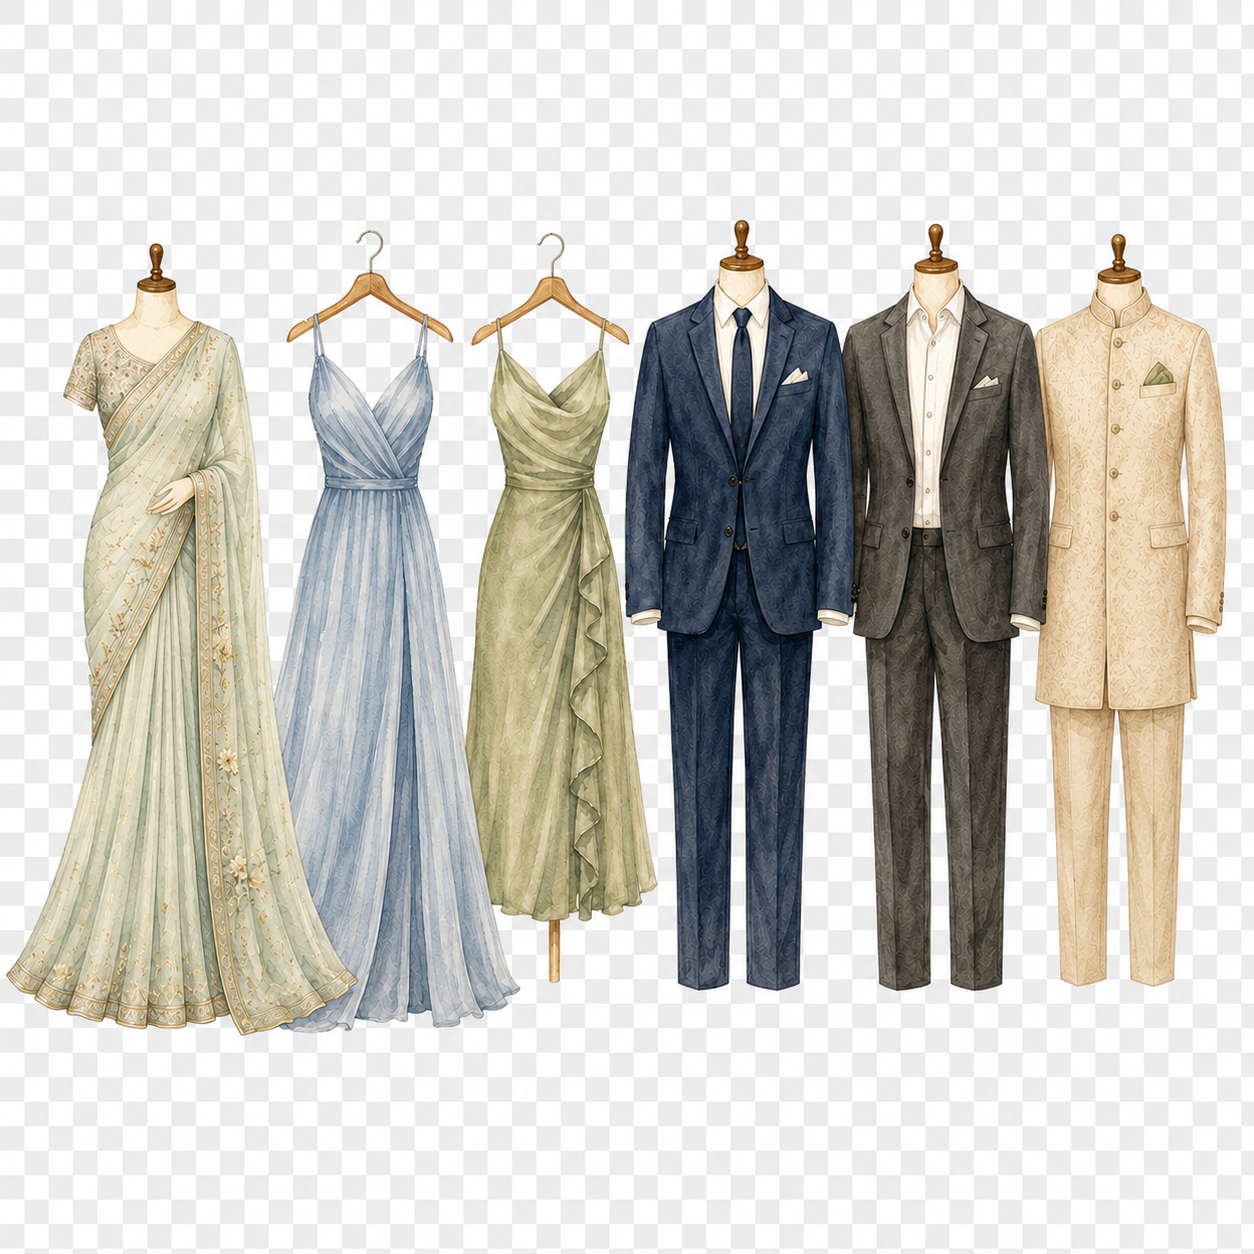
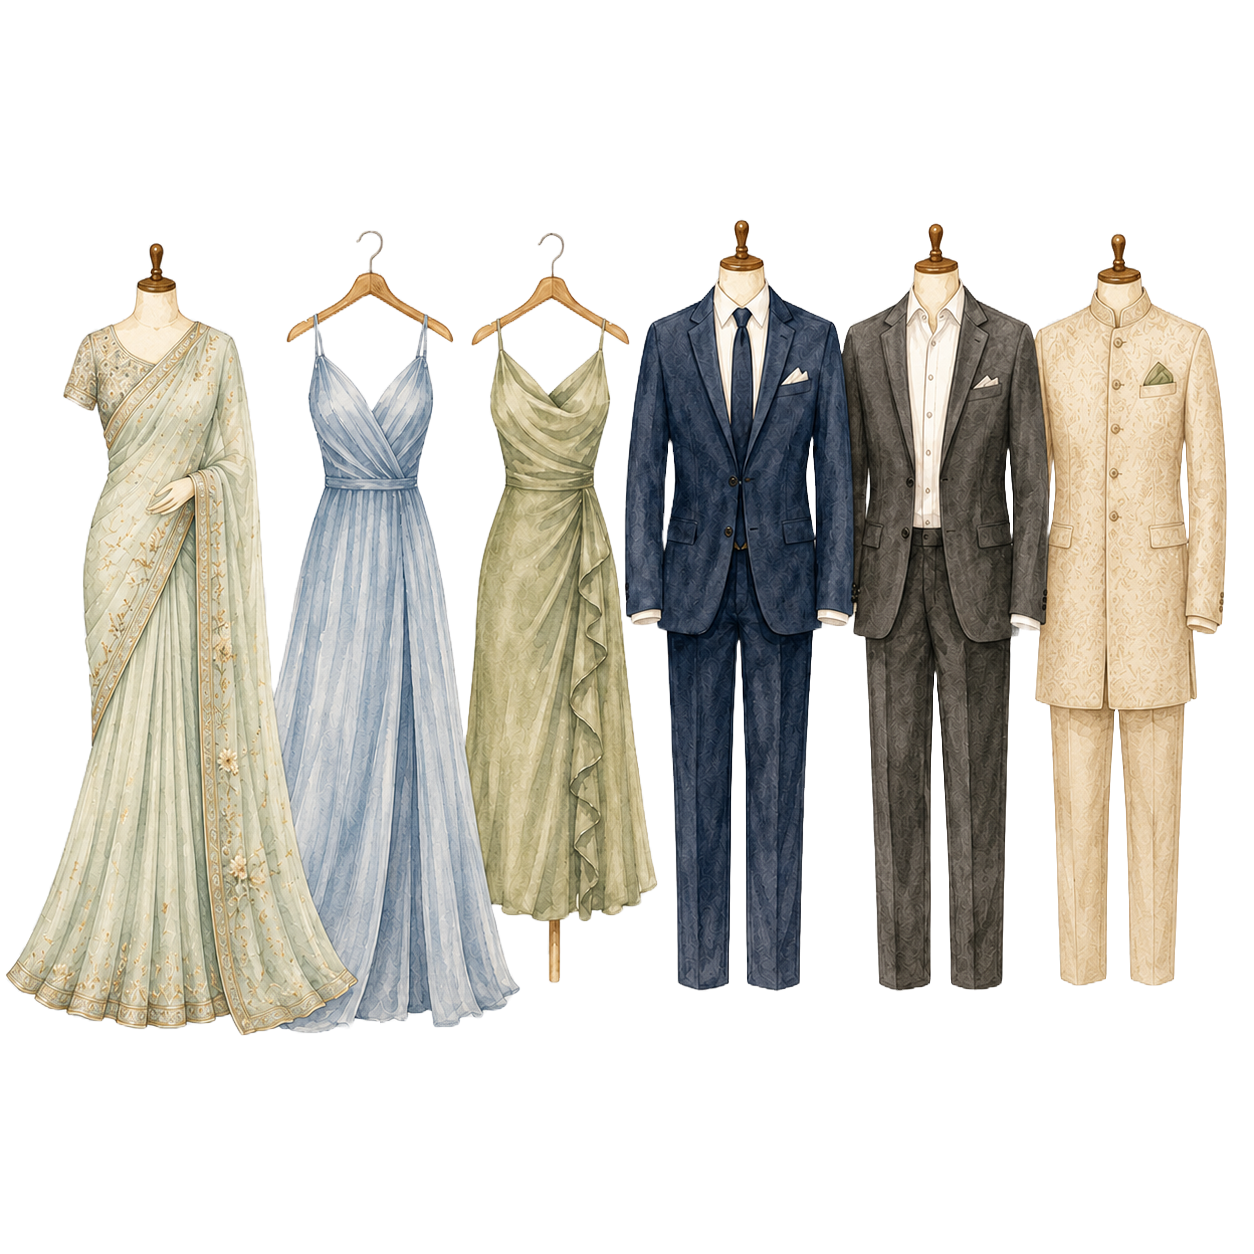
updates attire images

Changed region(s): [[0.5287, 0.3732, 0.5598, 0.4354], [0.8086, 0.4976, 0.8397, 0.5287], [0.2488, 0.2488, 0.2799, 0.2799]]

diff --git a/crop_transparent.py b/crop_transparent.py
@@ -1,0 +1,50 @@
+from PIL import Image
+from pathlib import Path
+import sys
+
+def crop_transparent_png(input_path, output_path=None, padding=24, alpha_threshold=25):
+    input_path = Path(input_path)
+
+    if output_path is None:
+        output_path = input_path.with_name(input_path.stem + "-cropped.png")
+    else:
+        output_path = Path(output_path)
+
+    img = Image.open(input_path).convert("RGBA")
+
+    # Treat very faint alpha pixels as transparent
+    alpha = img.getchannel("A")
+    thresholded_alpha = alpha.point(lambda p: 255 if p > alpha_threshold else 0)
+
+    bbox = thresholded_alpha.getbbox()
+
+    if bbox is None:
+        print(f"No visible pixels found in {input_path}")
+        return
+
+    left, top, right, bottom = bbox
+
+    left = max(left - padding, 0)
+    top = max(top - padding, 0)
+    right = min(right + padding, img.width)
+    bottom = min(bottom + padding, img.height)
+
+    cropped = img.crop((left, top, right, bottom))
+    cropped.save(output_path)
+
+    print(f"Saved: {output_path}")
+    print(f"Original size: {img.width} x {img.height}")
+    print(f"Cropped size: {cropped.width} x {cropped.height}")
+    print(f"Crop box: left={left}, top={top}, right={right}, bottom={bottom}")
+    print(f"Alpha threshold used: {alpha_threshold}")
+
+if __name__ == "__main__":
+    if len(sys.argv) < 2:
+        print("Usage: python crop_transparent.py path/to/image.png [alpha_threshold]")
+        sys.exit(1)
+
+    threshold = 25
+    if len(sys.argv) >= 3:
+        threshold = int(sys.argv[2])
+
+    crop_transparent_png(sys.argv[1], alpha_threshold=threshold)